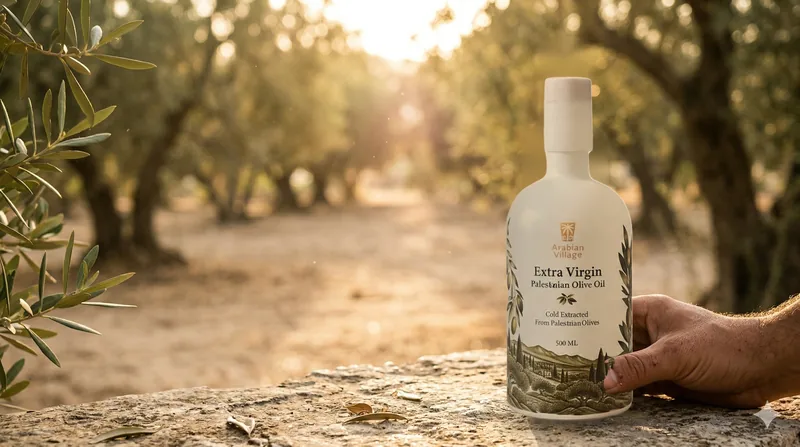
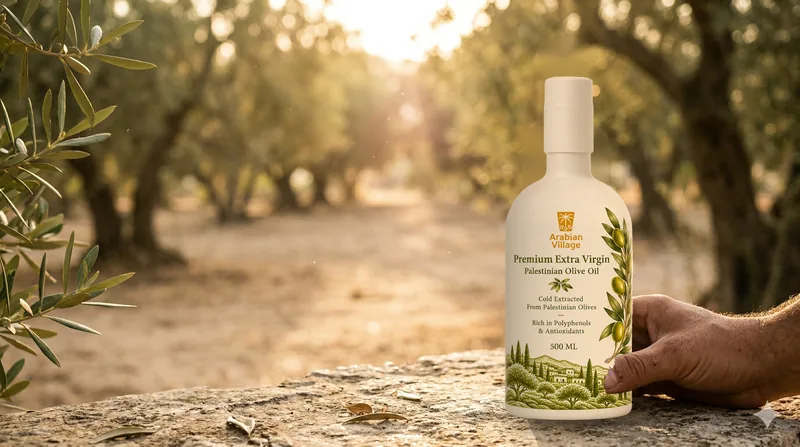
New studio photos: Premium Extra Virgin (white) + Premium Organic (black) 500 ml
- product-extra-virgin-3 / product-organic-3 squares + cut-outs (new names so cached copies refresh)
- home hero + pour animation use the new Extra Virgin cut-out (same bottle geometry)
- 3 lifestyle scenes re-composed from the originals with the new bottles
- old product-extra-virgin / -cutout / organic-2 images removed

Changed region(s): [[0.625, 0.1745, 0.8125, 0.9597]]

diff --git a/src/components/sections/BottleOpening.tsx b/src/components/sections/BottleOpening.tsx
@@ -18,7 +18,7 @@ const DROPS = [
 ];
 
 /**
- * Pour geometry (FORGE PRODUCTS-R1 O-10). `product-extra-virgin-cutout` was
+ * Pour geometry (FORGE PRODUCTS-R1 O-10). `product-extra-virgin-3-cutout` was
  * measured, not guessed: the neck spans x 0.31–0.68 of the image width and the cap
  * top sits at y 0.005 of its height (shoulders from y≈0.30). The aspect comes from
  * the optimiser manifest, so a re-cut image keeps the maths right.
@@ -27,7 +27,7 @@ const DROPS = [
  * the stream, drops and pool live in the same (un-rotated) box and start at where
  * the mouth lands after that rotation — so the oil visibly leaves the bottle mouth.
  */
-const POUR_IMAGE = 'product-extra-virgin-cutout';
+const POUR_IMAGE = 'product-extra-virgin-3-cutout';
 const POUR_SIZE = (manifest as Record<string, { width: number; height: number }>)[POUR_IMAGE];
 const ASPECT = POUR_SIZE.width / POUR_SIZE.height; // w / h
 const NECK = { x0: 0.31, x1: 0.68 };

diff --git a/src/pages/ProductsPage.tsx b/src/pages/ProductsPage.tsx
@@ -165,7 +165,7 @@ export function ProductsPage() {
             <div className="flex items-center justify-center">
               <div className="w-full max-w-[460px] overflow-hidden rounded-[2rem] border border-olive-dark/10 bg-white shadow-[0_30px_60px_rgba(46,58,36,0.12)]">
                 <Picture
-                  name="product-extra-virgin"
+                  name="product-extra-virgin-3"
                   alt={t('alt.productsHero')}
                   cmsKey="products.hero"
                   cmsAltKey="alt.productsHero"

diff --git a/src/components/sections/Hero.tsx b/src/components/sections/Hero.tsx
@@ -45,7 +45,7 @@ function BottleParallax({ mouse }: { mouse: React.MutableRefObject<{ x: number; 
     // the transparent Extra Virgin cut-out (533x1429), sized by height.
     <Picture
       ref={imgRef}
-      name="product-extra-virgin-cutout"
+      name="product-extra-virgin-3-cutout"
       alt={t('alt.heroBottle')}
       cmsKey="home.hero.bottle"
       cmsAltKey="alt.heroBottle"

diff --git a/public/pricing.md b/public/pricing.md
@@ -22,4 +22,4 @@
 
 Prices are in MYR and are the retail prices at Berkat Madinah Store, the only seller of this brand in Malaysia. Stock can vary by branch. Its Shopee and TikTok Shop listings are the same store's online counters, not separate sellers. Wholesale terms for shops, restaurants and cafés are quoted on request — ask on WhatsApp +60 11-1111 9912.
 
-Last updated: 2026-11-05
+Last updated: 2026-11-06

diff --git a/public/faq.md b/public/faq.md
@@ -60,4 +60,4 @@ All 5 branches are in Selangor, and the store's Shopee and TikTok Shop counters 
 
 Yes — Berkat Madinah Store supplies restaurants, cafés and shops. Terms are quoted on request, on WhatsApp +60 11-1111 9912 or by email at cs@madinah.com.my.
 
-Last updated: 2026-11-05
+Last updated: 2026-11-06

diff --git a/public/AGENTS.md b/public/AGENTS.md
@@ -22,4 +22,4 @@ What an automated agent can do on this site, and where.
 - Method: GET
 - Notes: English at /llms.txt and Bahasa Melayu at /llms-ms.txt. Each is generated from src/data/storeFacts.json, so the figures in them match the pages by construction.
 
-Last updated: 2026-11-05
+Last updated: 2026-11-06

diff --git a/public/about.md b/public/about.md
@@ -22,4 +22,4 @@ Arabian Village is a premium, first cold pressed extra virgin olive oil sourced 
 - Instagram: https://www.instagram.com/berkatmadinah
 - Facebook: https://www.facebook.com/share/1DMS971Fwk/
 
-Last updated: 2026-11-05
+Last updated: 2026-11-06
